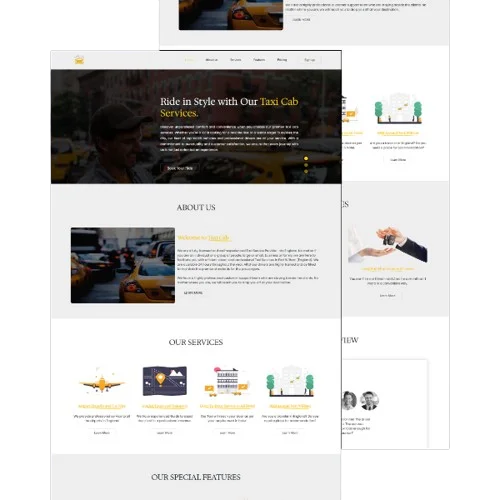
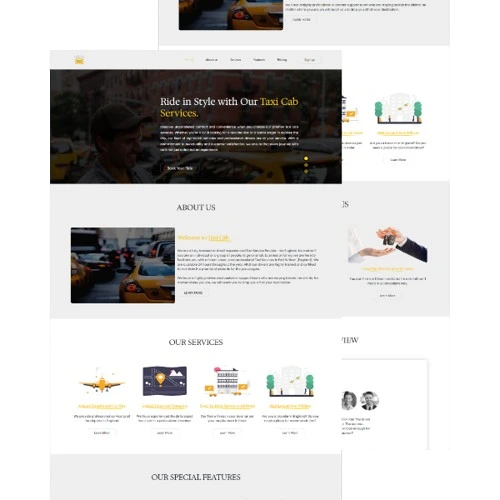
added project images and links, only wordpress project websites link left to added

Changed region(s): [[0.66, 0.39, 0.69, 0.9], [0.87, 0.87, 0.9, 0.9], [0.66, 0.09, 0.69, 0.12]]

diff --git a/project.html b/project.html
@@ -70,15 +70,15 @@
         <!-- Menus -->
         <nav class="header__nav">
           <ul>
-            <li><a href="#about" aria-label="it is link for about section">About</a></li>
-            <li><a href="#projects" aria-label="it is link for project section">Projects</a></li>
-            <li><a href="#services" aria-label="it is link for service section">Services</a></li>
-            <li><a href="#contact" aria-label="it is link for contact section">Contact</a></li>
+            <li><a href="index.html#about" aria-label="it is link for about section">About</a></li>
+            <li><a href="index.html#projects" aria-label="it is link for project section">Projects</a></li>
+            <li><a href="index.html#services" aria-label="it is link for service section">Services</a></li>
+            <li><a href="index.html#contact" aria-label="it is link for contact section">Contact</a></li>
           </ul>
         </nav>
         <!-- Header Button -->
         <div class="header__btn">
-          <a href="#contact" class="btn" aria-label="it is link for contact section">Hire Me</a>
+          <a href="index.html#contact" class="btn" aria-label="it is link for contact section">Hire Me</a>
         </div>
         <!-- Hamburger Menu Icon -->
         <div class="header__hamburgermenu-icon">
@@ -96,10 +96,10 @@
       <!-- Menus -->
       <nav class="hamburgermenu__nav flex">
         <ul>
-          <li><a href="#about" aria-label="it is link for about section">About</a></li>
-          <li><a href="#projects" aria-label="it is link for project section">Projects</a></li>
-          <li><a href="#services" aria-label="it is link for service section">Services</a></li>
-          <li><a href="#contact" aria-label="it is link for contact section">Contact</a></li>
+          <li><a href="index.html#about" aria-label="it is link for about section">About</a></li>
+          <li><a href="index.html#projects" aria-label="it is link for project section">Projects</a></li>
+          <li><a href="index.html#services" aria-label="it is link for service section">Services</a></li>
+          <li><a href="index.html#contact" aria-label="it is link for contact section">Contact</a></li>
         </ul>
       </nav>
       <!-- Header Button -->
@@ -143,23 +143,23 @@
         <!-- 3 -->
         <div class="project__filter-box web itemBox">
           <div class="overlay">
-            <a href="#" target="_blank" aria-label="this link are for particular projects links"><i class="fa-solid fa-arrow-right-long"></i></a>
+            <a href="https://abdurrobr34l.github.io/Edutech/" target="_blank" aria-label="this link are for particular projects links"><i class="fa-solid fa-arrow-right-long"></i></a>
           </div>
         </div>
         <!-- 4 -->
         <div class="project__filter-box web itemBox">
           <div class="overlay">
-            <a href="#" target="_blank" aria-label="this link are for particular projects links"><i class="fa-solid fa-arrow-right-long"></i></a>
+            <a href="https://abdurrobr34l.github.io/Bookmark/" target="_blank" aria-label="this link are for particular projects links"><i class="fa-solid fa-arrow-right-long"></i></a>
           </div>
         </div>
         <!-- 5 -->
         <div class="project__filter-box web itemBox">
           <div class="overlay">
-            <a href="#" target="_blank" aria-label="this link are for particular projects links"><i class="fa-solid fa-arrow-right-long"></i></a>
+            <a href="https://abdurrobr34l.github.io/Entrepoti/" target="_blank" aria-label="this link are for particular projects links"><i class="fa-solid fa-arrow-right-long"></i></a>
           </div>
         </div>
         <!-- 6 -->
-        <div class="project__filter-box email itemBox">
+        <div class="project__filter-box wordpress itemBox">
           <div class="overlay">
             <a href="#" target="_blank" aria-label="this link are for particular projects links"><i class="fa-solid fa-arrow-right-long"></i></a>
           </div>
@@ -167,34 +167,46 @@
         <!-- 7 -->
         <div class="project__filter-box web itemBox">
           <div class="overlay">
-            <a href="#" target="_blank" aria-label="this link are for particular projects links"><i class="fa-solid fa-arrow-right-long"></i></a>
+            <a href="https://abdurrobr34l.github.io/project_nipro-psd/" target="_blank" aria-label="this link are for particular projects links"><i class="fa-solid fa-arrow-right-long"></i></a>
           </div>
         </div>
         <!-- 8 -->
         <div class="project__filter-box web itemBox">
           <div class="overlay">
-            <a href="#" target="_blank" aria-label="this link are for particular projects links"><i class="fa-solid fa-arrow-right-long"></i></a>
+            <a href="https://abdurrobr34l.github.io/Taxi-Cab/" target="_blank" aria-label="this link are for particular projects links"><i class="fa-solid fa-arrow-right-long"></i></a>
           </div>
         </div>
         <!-- 9 -->
         <div class="project__filter-box web itemBox">
           <div class="overlay">
-            <a href="#" target="_blank" aria-label="this link are for particular projects links"><i class="fa-solid fa-arrow-right-long"></i></a>
+            <a href="https://abdurrobr34l.github.io/project_e-school/" target="_blank" aria-label="this link are for particular projects links"><i class="fa-solid fa-arrow-right-long"></i></a>
           </div>
         </div>
         <!-- 10 -->
         <div class="project__filter-box email itemBox">
           <div class="overlay">
-            <a href="#" target="_blank" aria-label="this link are for particular projects links"><i class="fa-solid fa-arrow-right-long"></i></a>
+            <a href="https://abdurrobr34l.github.io/Email-Template/" target="_blank" aria-label="this link are for particular projects links"><i class="fa-solid fa-arrow-right-long"></i></a>
           </div>
         </div>
         <!-- 11 -->
         <div class="project__filter-box web itemBox">
           <div class="overlay">
-            <a href="#" target="_blank" aria-label="this link are for particular projects links"><i class="fa-solid fa-arrow-right-long"></i></a>
+            <a href="https://abdurrobr34l.github.io/Project-psd_to_html/" target="_blank" aria-label="this link are for particular projects links"><i class="fa-solid fa-arrow-right-long"></i></a>
           </div>
         </div>
         <!-- 12 -->
+        <div class="project__filter-box wordpress itemBox">
+          <div class="overlay">
+            <a href="#" target="_blank" aria-label="this link are for particular projects links"><i class="fa-solid fa-arrow-right-long"></i></a>
+          </div>
+        </div>
+        <!-- 13 -->
+        <div class="project__filter-box email itemBox">
+          <div class="overlay">
+            <a href="https://abdurrobr34l.github.io/Email-Template-2/" target="_blank" aria-label="this link are for particular projects links"><i class="fa-solid fa-arrow-right-long"></i></a>
+          </div>
+        </div>
+        <!-- 14 -->
         <div class="project__filter-box wordpress itemBox">
           <div class="overlay">
             <a href="#" target="_blank" aria-label="this link are for particular projects links"><i class="fa-solid fa-arrow-right-long"></i></a>

diff --git a/css/main.css b/css/main.css
@@ -615,7 +615,7 @@ nav ul {
   background-position: center;
 }
 .project__filter-box:nth-child(6) {
-  background-image: url("../img/project/email2.webp");
+  background-image: url("../img/project/e-commerce.webp");
   background-size: cover;
   background-repeat: no-repeat;
   background-position: center;
@@ -633,13 +633,13 @@ nav ul {
   background-position: center;
 }
 .project__filter-box:nth-child(9) {
-  background-image: url("../img/project/eschool.webp");
+  background-image: url("../img/project/e-school.webp");
   background-size: cover;
   background-repeat: no-repeat;
   background-position: center;
 }
 .project__filter-box:nth-child(10) {
-  background-image: url("../img/project/email.webp");
+  background-image: url("../img/project/email1.webp");
   background-size: cover;
   background-repeat: no-repeat;
   background-position: center;
@@ -651,7 +651,19 @@ nav ul {
   background-position: center;
 }
 .project__filter-box:nth-child(12) {
-  background-image: url("../img/project/old/saaslander.webp");
+  background-image: url("../img/project/ilander.webp");
+  background-size: cover;
+  background-repeat: no-repeat;
+  background-position: center;
+}
+.project__filter-box:nth-child(13) {
+  background-image: url("../img/project/email2.webp");
+  background-size: cover;
+  background-repeat: no-repeat;
+  background-position: center;
+}
+.project__filter-box:nth-child(14) {
+  background-image: url("../img/project/codext.webp");
   background-size: cover;
   background-repeat: no-repeat;
   background-position: center;

diff --git a/index.html b/index.html
@@ -263,19 +263,19 @@
         <!-- 3 -->
         <div class="project__filter-box web itemBox">
           <div class="overlay">
-            <a href="#" target="_blank" aria-label="this link are for particular projects links"><i class="fa-solid fa-arrow-right-long"></i></a>
+            <a href="https://abdurrobr34l.github.io/Edutech/" target="_blank" aria-label="this link are for particular projects links"><i class="fa-solid fa-arrow-right-long"></i></a>
           </div>
         </div>
         <!-- 4 -->
         <div class="project__filter-box web itemBox">
           <div class="overlay">
-            <a href="#" target="_blank" aria-label="this link are for particular projects links"><i class="fa-solid fa-arrow-right-long"></i></a>
+            <a href="https://abdurrobr34l.github.io/Bookmark/" target="_blank" aria-label="this link are for particular projects links"><i class="fa-solid fa-arrow-right-long"></i></a>
           </div>
         </div>
         <!-- 5 -->
         <div class="project__filter-box web itemBox">
           <div class="overlay">
-            <a href="#" target="_blank" aria-label="this link are for particular projects links"><i class="fa-solid fa-arrow-right-long"></i></a>
+            <a href="https://abdurrobr34l.github.io/Entrepoti/" target="_blank" aria-label="this link are for particular projects links"><i class="fa-solid fa-arrow-right-long"></i></a>
           </div>
         </div>
         <!-- 6 -->

diff --git a/scss/main.scss b/scss/main.scss
@@ -486,7 +486,7 @@
       }
 
       &:nth-child(6) {
-        background-image: url("../img/project/email2.webp");
+        background-image: url("../img/project/e-commerce.webp");
         @include bg-css;
       }
       &:nth-child(7) {
@@ -498,11 +498,11 @@
         @include bg-css;
       }
       &:nth-child(9) {
-        background-image: url("../img/project/eschool.webp");
+        background-image: url("../img/project/e-school.webp");
         @include bg-css;
       }
       &:nth-child(10) {
-        background-image: url("../img/project/email.webp");
+        background-image: url("../img/project/email1.webp");
         @include bg-css;
       }
       &:nth-child(11) {
@@ -510,7 +510,15 @@
         @include bg-css;
       }
       &:nth-child(12) {
-        background-image: url("../img/project/old/saaslander.webp");
+        background-image: url("../img/project/ilander.webp");
+        @include bg-css;
+      }
+      &:nth-child(13) {
+        background-image: url("../img/project/email2.webp");
+        @include bg-css;
+      }
+      &:nth-child(14) {
+        background-image: url("../img/project/codext.webp");
         @include bg-css;
       }
     }
